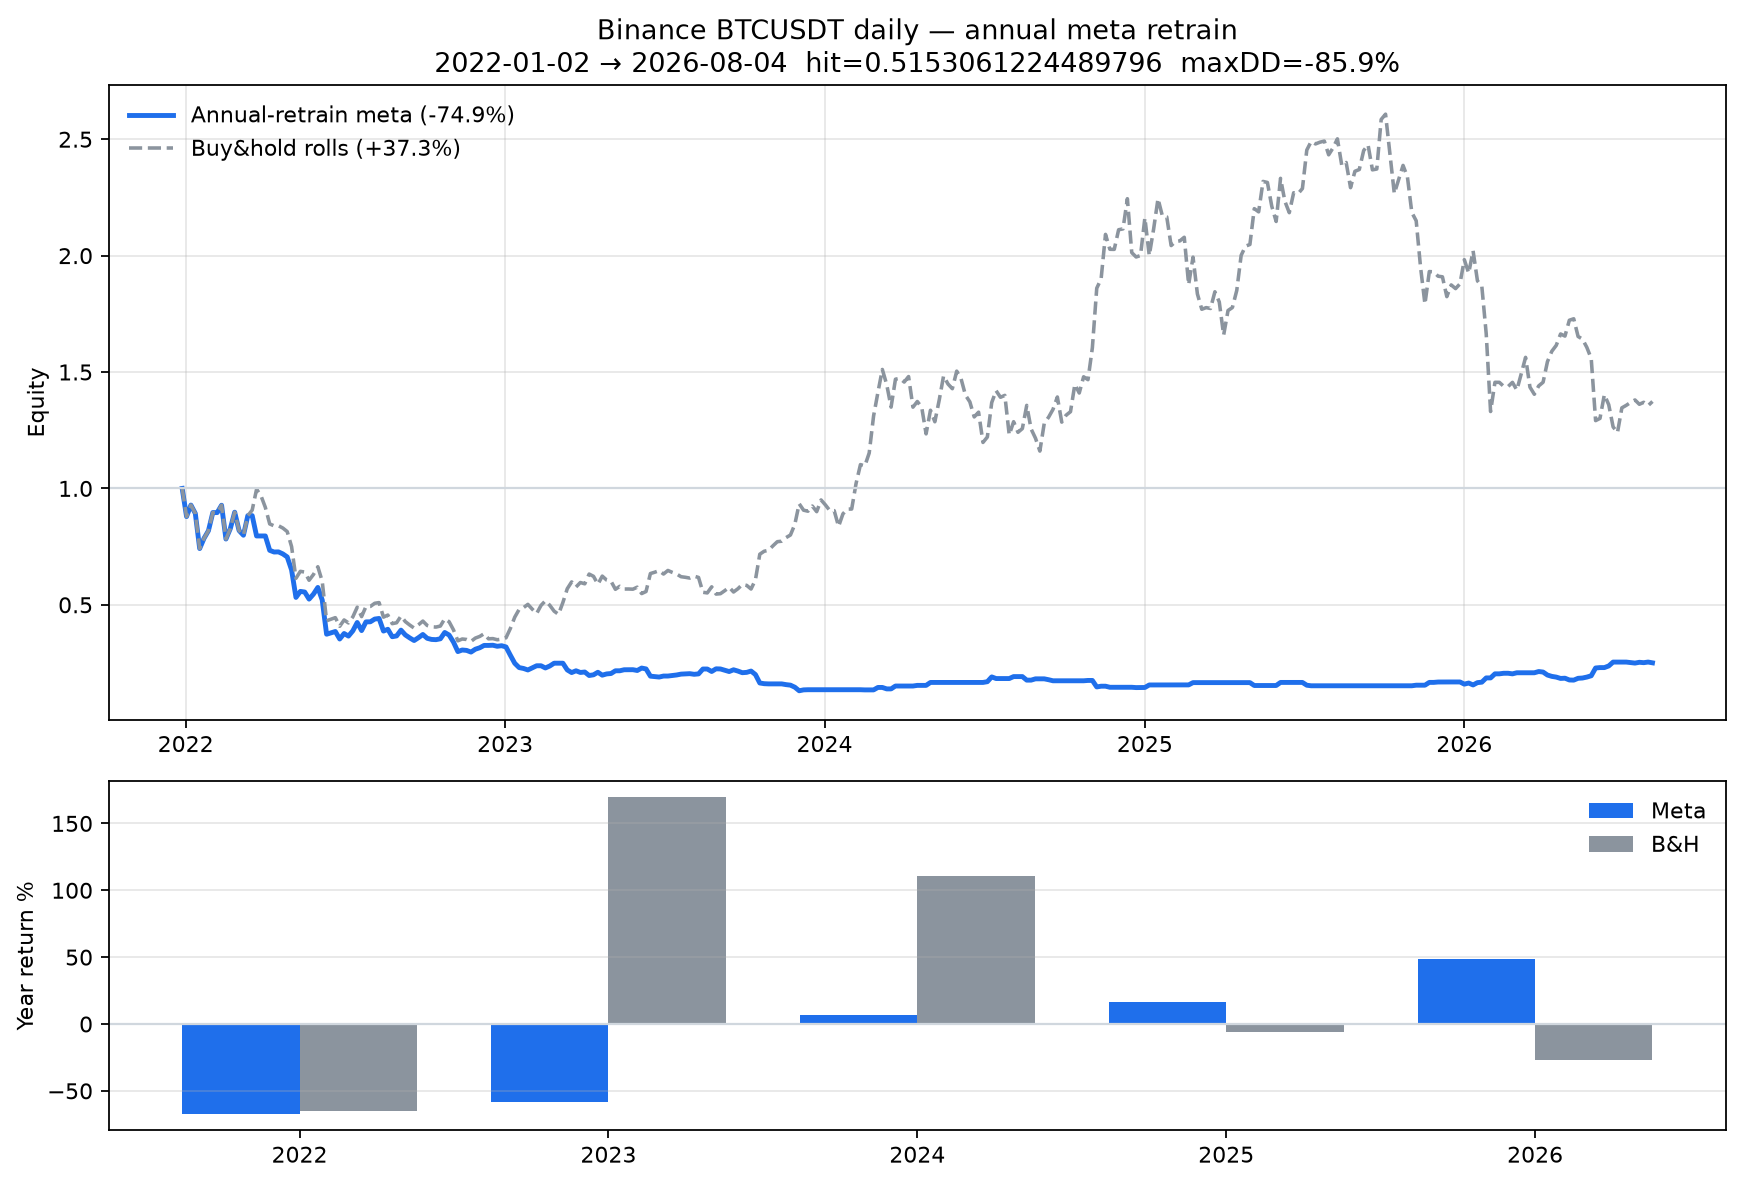
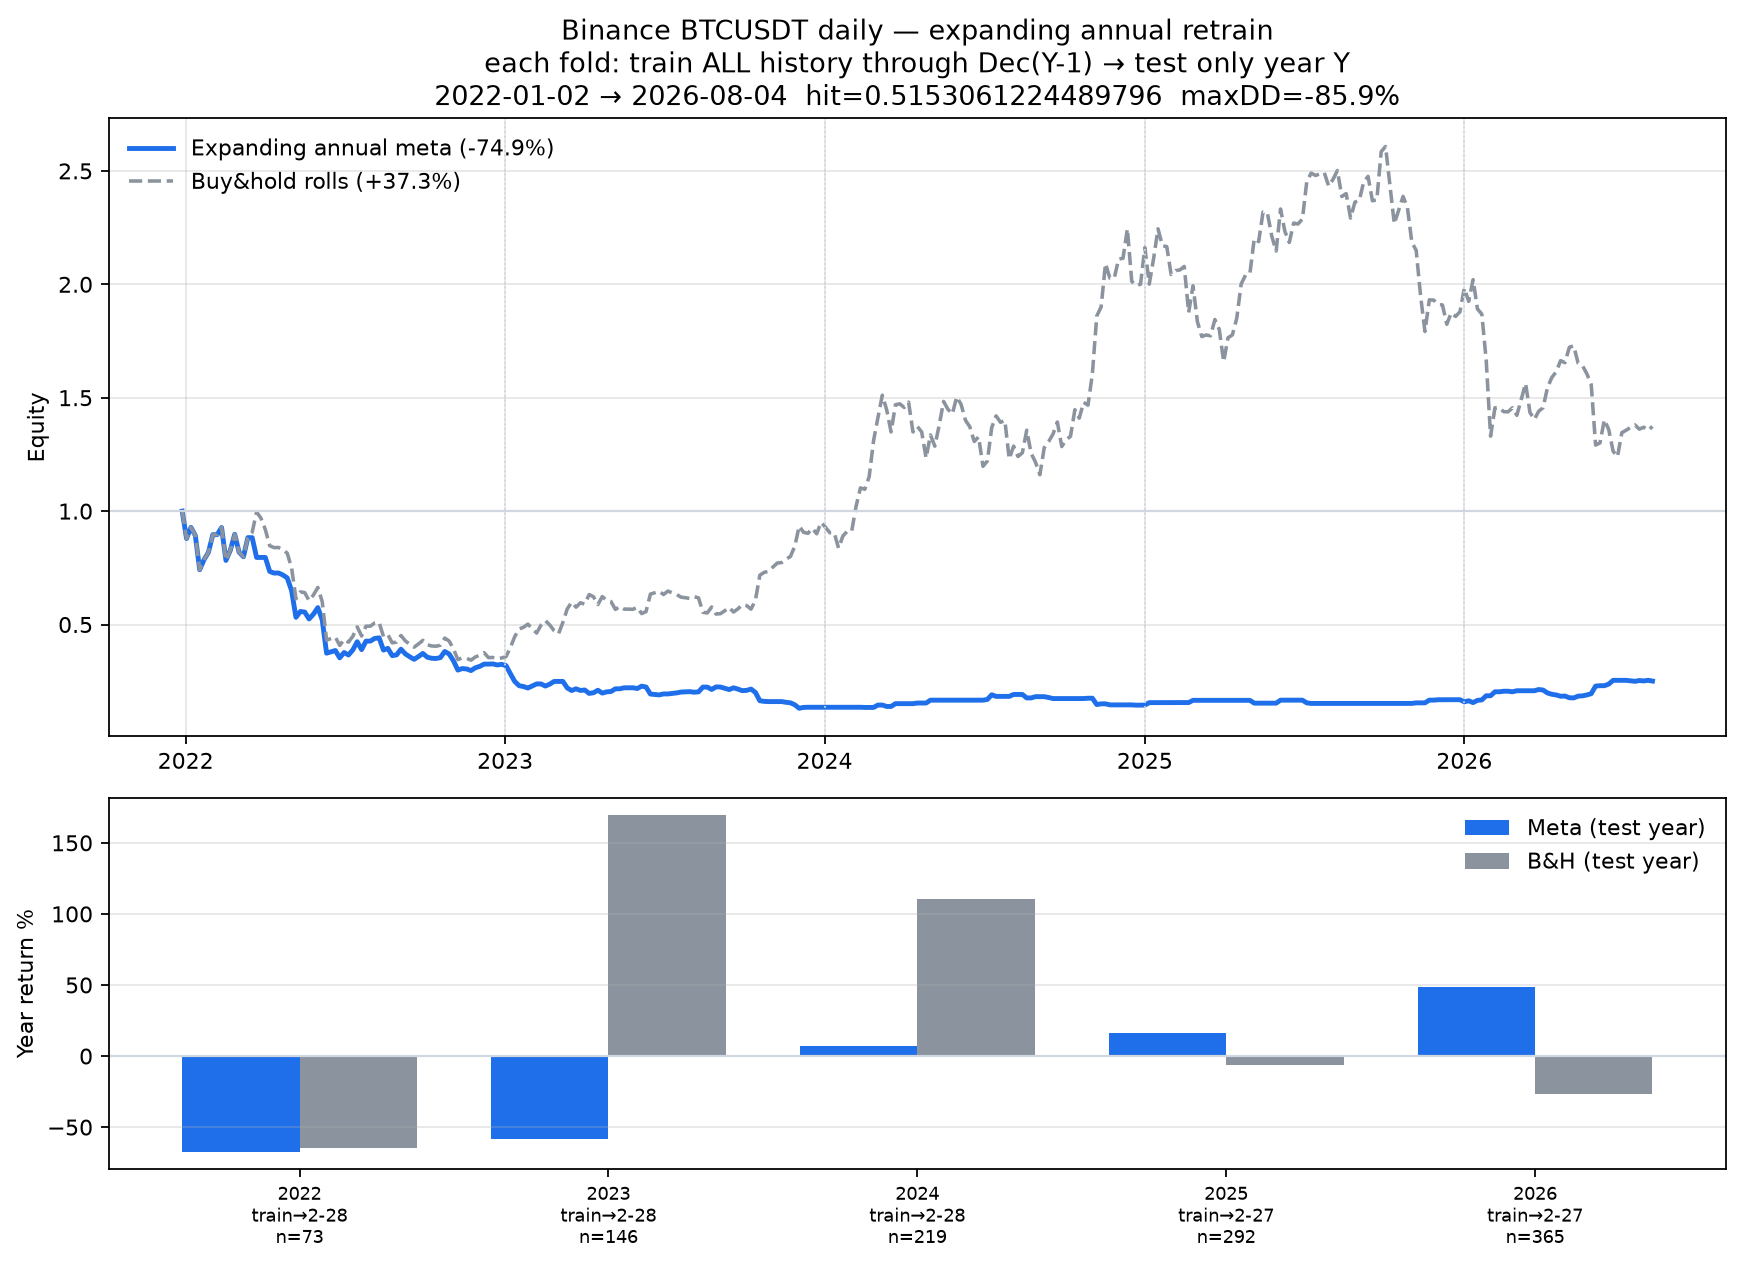
Clarify expanding annual train/test folds for meta backtest
Explicit train_end=Dec(Y-1) and test=year Y folds using the best
logistic baseline meta config; regenerate chart labels.

diff --git a/kronos_signal/annual_meta.py b/kronos_signal/annual_meta.py
@@ -1,10 +1,12 @@
 """
-Annual retrain/test meta walk-forward.
+Expanding annual retrain/test for the meta-model (best logistic config).
 
-For each test year Y:
-  - train logistic meta on all prior feature rows (asof < Y-01-01)
-  - test on rows with asof in year Y
-Then stitch yearly test segments into one equity curve.
+Fold for calendar year Y:
+  TRAIN = all feature rows with asof <= Dec 31 of (Y-1)   # all history up to then
+  TEST  = all feature rows with asof in [Jan 1 Y, Dec 31 Y]
+
+Then move forward one year: include year Y into train, test Y+1, etc.
+This is NOT "train once until 2022 then test everything after".
 """
 
 from __future__ import annotations
@@ -23,6 +25,10 @@ from .meta_model import _make_model
 @dataclass
 class YearResult:
     year: int
+    train_start: str
+    train_end: str
+    test_start: str
+    test_end: str
     n_train: int
     n_test: int
     n_long: int
@@ -32,6 +38,7 @@ class YearResult:
     total_return: float
     buy_hold_return: float
     max_drawdown: float
+    model: str
 
     def to_dict(self) -> dict:
         return asdict(self)
@@ -58,46 +65,40 @@ def annual_retrain_meta(
     feature_cols: list[str] | None = None,
 ) -> dict:
     frame = steps_to_frame(steps, ohlcv)
-    frame["year"] = pd.to_datetime(frame["asof"], utc=True).dt.year
+    asofs = pd.to_datetime(frame["asof"], utc=True)
+    frame = frame.assign(asof=asofs)
     feat_cols = feature_cols or list(BASELINE_META_FEATURES)
     feat_cols = [c for c in feat_cols if c in frame.columns]
 
-    years = sorted(frame["year"].unique().tolist())
+    years_present = sorted(asofs.dt.year.unique().tolist())
     if test_years is None:
-        # need at least one prior year of rows for training when possible
-        test_years = [y for y in years if y >= years[0] + 1] or years
+        test_years = [y for y in years_present if y >= years_present[0] + 1]
     else:
-        test_years = [y for y in test_years if y in years]
+        test_years = [y for y in test_years if y in years_present]
 
     X = np.nan_to_num(frame[feat_cols].to_numpy(dtype=float), nan=0.0, posinf=0.0, neginf=0.0)
     y = frame["y_up"].to_numpy(dtype=int)
     realized = frame["realized_return"].to_numpy(dtype=float)
-    asofs = pd.to_datetime(frame["asof"], utc=True)
 
     all_steps: list[StepResult] = []
     year_rows: list[YearResult] = []
 
     for year in test_years:
-        train_idx = np.where(asofs.dt.year < year)[0]
-        test_idx = np.where(asofs.dt.year == year)[0]
+        train_end = pd.Timestamp(f"{year - 1}-12-31", tz="UTC")
+        test_start = pd.Timestamp(f"{year}-01-01", tz="UTC")
+        test_end = pd.Timestamp(f"{year}-12-31", tz="UTC")
+
+        train_idx = np.where(asofs <= train_end)[0]
+        test_idx = np.where((asofs >= test_start) & (asofs <= test_end))[0]
         if len(test_idx) == 0:
             continue
+
+        train_start_s = str(asofs.iloc[train_idx[0]].date()) if len(train_idx) else ""
+        train_end_s = str(asofs.iloc[train_idx[-1]].date()) if len(train_idx) else str(train_end.date())
+        test_start_s = str(asofs.iloc[test_idx[0]].date())
+        test_end_s = str(asofs.iloc[test_idx[-1]].date())
+
         if len(train_idx) < min_train:
-            # not enough history: skip or HOLD-all
-            year_rows.append(
-                YearResult(
-                    year=year,
-                    n_train=len(train_idx),
-                    n_test=len(test_idx),
-                    n_long=0,
-                    n_short=0,
-                    n_hold=len(test_idx),
-                    hit_rate=None,
-                    total_return=0.0,
-                    buy_hold_return=float(np.prod(1.0 + realized[test_idx]) - 1.0),
-                    max_drawdown=0.0,
-                )
-            )
             for i in test_idx:
                 all_steps.append(
                     StepResult(
@@ -112,9 +113,28 @@ def annual_retrain_meta(
                         correct=None,
                     )
                 )
+            year_rows.append(
+                YearResult(
+                    year=year,
+                    train_start=train_start_s,
+                    train_end=train_end_s,
+                    test_start=test_start_s,
+                    test_end=test_end_s,
+                    n_train=len(train_idx),
+                    n_test=len(test_idx),
+                    n_long=0,
+                    n_short=0,
+                    n_hold=len(test_idx),
+                    hit_rate=None,
+                    total_return=0.0,
+                    buy_hold_return=float(np.prod(1.0 + realized[test_idx]) - 1.0),
+                    max_drawdown=0.0,
+                    model=model_type,
+                )
+            )
             continue
 
-        model, _ = _make_model(model_type)
+        model, used = _make_model(model_type)
         model.fit(X[train_idx], y[train_idx])
 
         year_step_rets = []
@@ -154,6 +174,10 @@ def annual_retrain_meta(
         year_rows.append(
             YearResult(
                 year=year,
+                train_start=train_start_s,
+                train_end=train_end_s,
+                test_start=test_start_s,
+                test_end=test_end_s,
                 n_train=len(train_idx),
                 n_test=len(test_idx),
                 n_long=n_long,
@@ -163,6 +187,7 @@ def annual_retrain_meta(
                 total_return=total_r,
                 buy_hold_return=float(np.prod(1.0 + realized[test_idx]) - 1.0),
                 max_drawdown=max_dd,
+                model=used,
             )
         )
 
@@ -182,10 +207,29 @@ def annual_retrain_meta(
         tau=0.0,
     )
 
+    folds = [
+        {
+            "fold": i + 1,
+            "train": f"{y.train_start} → {y.train_end}",
+            "test": f"{y.test_start} → {y.test_end}",
+            "n_train": y.n_train,
+            "n_test": y.n_test,
+            "ret": y.total_return,
+            "bh": y.buy_hold_return,
+        }
+        for i, y in enumerate(year_rows)
+    ]
+
     return {
-        "scheme": "annual_retrain_meta",
+        "scheme": "expanding_annual_retrain",
+        "scheme_detail": (
+            "For each test year Y: train on ALL prior rows through Dec 31 (Y-1), "
+            "test only Jan-Dec Y; then roll forward including Y into the next train set."
+        ),
+        "model": "logistic_meta_baseline_features",
         "data_source": "Binance BTCUSDT 1d (data-api.binance.vision / mirrors)",
         "test_years": test_years,
+        "folds": folds,
         "by_year": [y.to_dict() for y in year_rows],
         "overall": {
             "n_steps": len(all_steps),
@@ -199,7 +243,6 @@ def annual_retrain_meta(
             "start": all_steps[0].asof if all_steps else "",
             "end": all_steps[-1].asof if all_steps else "",
         },
-        "raw_full_period": None,  # filled by caller if desired
         "steps": [asdict(s) for s in all_steps],
         "feature_cols": feat_cols,
     }

diff --git a/kronos_signal/plot_annual.py b/kronos_signal/plot_annual.py
@@ -1,4 +1,4 @@
-"""Plot annual-retrain meta equity and per-year bars."""
+"""Plot expanding annual-retrain meta equity and per-year bars."""
 
 from __future__ import annotations
 
@@ -28,14 +28,31 @@ def plot_annual(
     y_ret = [y["total_return"] * 100 for y in data["by_year"]]
     y_bh = [y["buy_hold_return"] * 100 for y in data["by_year"]]
 
-    fig, axes = plt.subplots(2, 1, figsize=(11, 7.5), gridspec_kw={"height_ratios": [2.0, 1.1]})
+    fig, axes = plt.subplots(2, 1, figsize=(11, 8.0), gridspec_kw={"height_ratios": [2.0, 1.2]})
     ax = axes[0]
     ov = data["overall"]
-    ax.plot(x, eq, color="#1f6feb", lw=2.2, label=f"Annual-retrain meta ({ov['total_return']:+.1%})")
-    ax.plot(x, eq_bh, color="#8b949e", lw=1.6, ls="--", label=f"Buy&hold rolls ({ov['buy_hold_return']:+.1%})")
+    ax.plot(
+        x,
+        eq,
+        color="#1f6feb",
+        lw=2.2,
+        label=f"Expanding annual meta ({ov['total_return']:+.1%})",
+    )
+    ax.plot(
+        x,
+        eq_bh,
+        color="#8b949e",
+        lw=1.6,
+        ls="--",
+        label=f"Buy&hold rolls ({ov['buy_hold_return']:+.1%})",
+    )
     ax.axhline(1.0, color="#d0d7de", lw=1)
+    # mark year boundaries
+    for y in years[1:]:
+        ax.axvline(pd.Timestamp(f"{y}-01-01", tz="UTC"), color="#d0d7de", lw=0.8, ls=":")
     ax.set_title(
-        f"Binance BTCUSDT daily — annual meta retrain\n"
+        "Binance BTCUSDT daily — expanding annual retrain\n"
+        f"each fold: train ALL history through Dec(Y-1) → test only year Y\n"
         f"{ov['start'][:10]} → {ov['end'][:10]}  hit={ov['hit_rate']}  maxDD={ov['max_drawdown']:.1%}"
     )
     ax.set_ylabel("Equity")
@@ -45,11 +62,14 @@ def plot_annual(
     ax2 = axes[1]
     xpos = np.arange(len(years))
     w = 0.38
-    ax2.bar(xpos - w / 2, y_ret, width=w, color="#1f6feb", label="Meta")
-    ax2.bar(xpos + w / 2, y_bh, width=w, color="#8b949e", label="B&H")
+    ax2.bar(xpos - w / 2, y_ret, width=w, color="#1f6feb", label="Meta (test year)")
+    ax2.bar(xpos + w / 2, y_bh, width=w, color="#8b949e", label="B&H (test year)")
     ax2.axhline(0, color="#d0d7de", lw=1)
+    labels = []
+    for y in data["by_year"]:
+        labels.append(f"{y['year']}\ntrain→{y.get('train_end', '')[-4:]}\nn={y['n_train']}")
     ax2.set_xticks(xpos)
-    ax2.set_xticklabels([str(y) for y in years])
+    ax2.set_xticklabels(labels, fontsize=8)
     ax2.set_ylabel("Year return %")
     ax2.grid(True, axis="y", alpha=0.3)
     ax2.legend(frameon=False)
